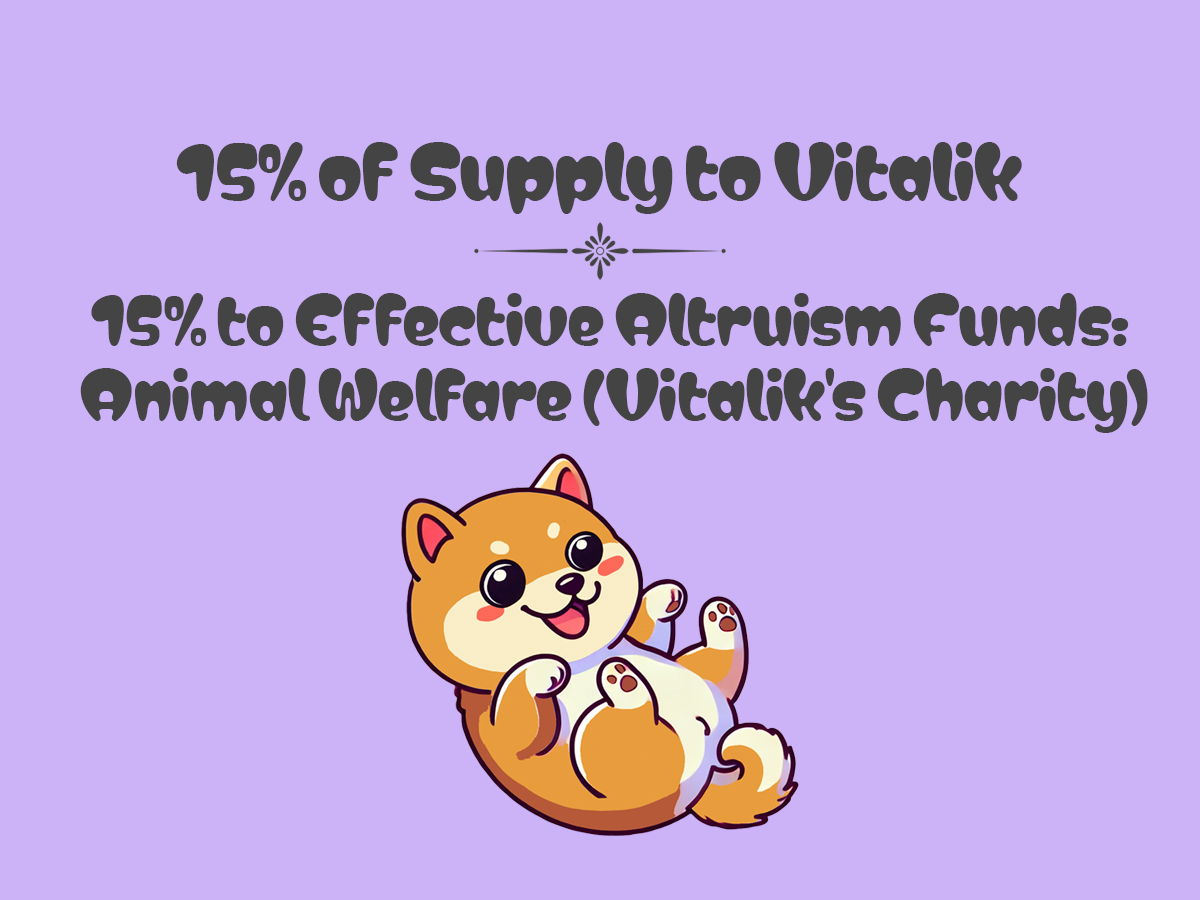
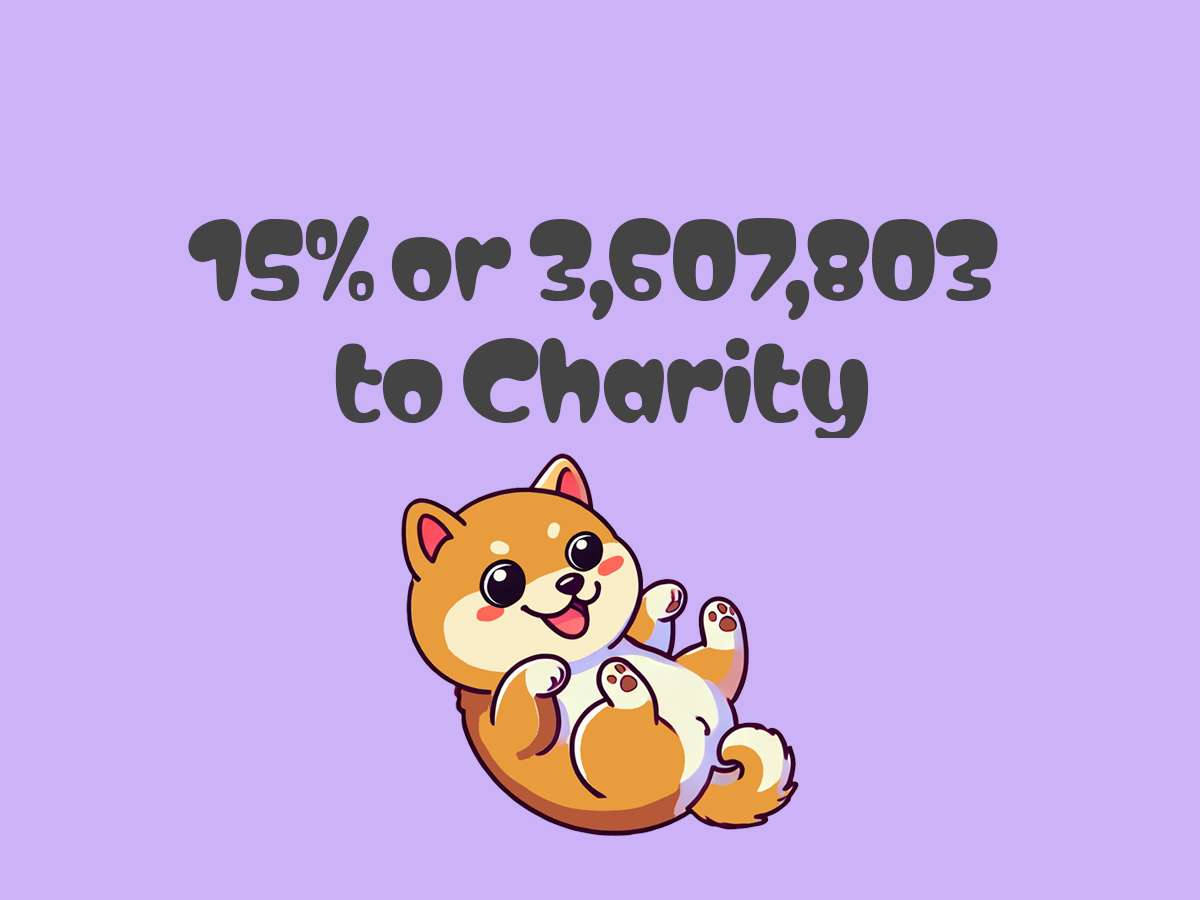
make me rich pls

Changed region(s): [[0.0617, 0.1556, 0.9558, 0.4978]]

diff --git a/index.html b/index.html
@@ -530,7 +530,7 @@
                   Supply: 24052024 (for respect of the date Kabosu "Doge" died)
                 </li>
                 <li>
-                  25% or (6013006 tokens) Sent to Vitalik.eth 
+                  15% or (3,607,803 tokens) Sent to Vitalik.eth 
                   <li> 10% Kept in a
                   Gnosis safe, for potential exchange listings.</li>
                 </li>
@@ -538,6 +538,9 @@
                   65% in LP pool which will be burnt forever. 
                   <li>Taxes will be 0%
                     after initial launch.</li>
+                </li>
+                <li>
+                  15% to Effective Altruism Funds: Animal Welfare (Vitalik's Charity)
                 </li>
               </p>
             </div>
